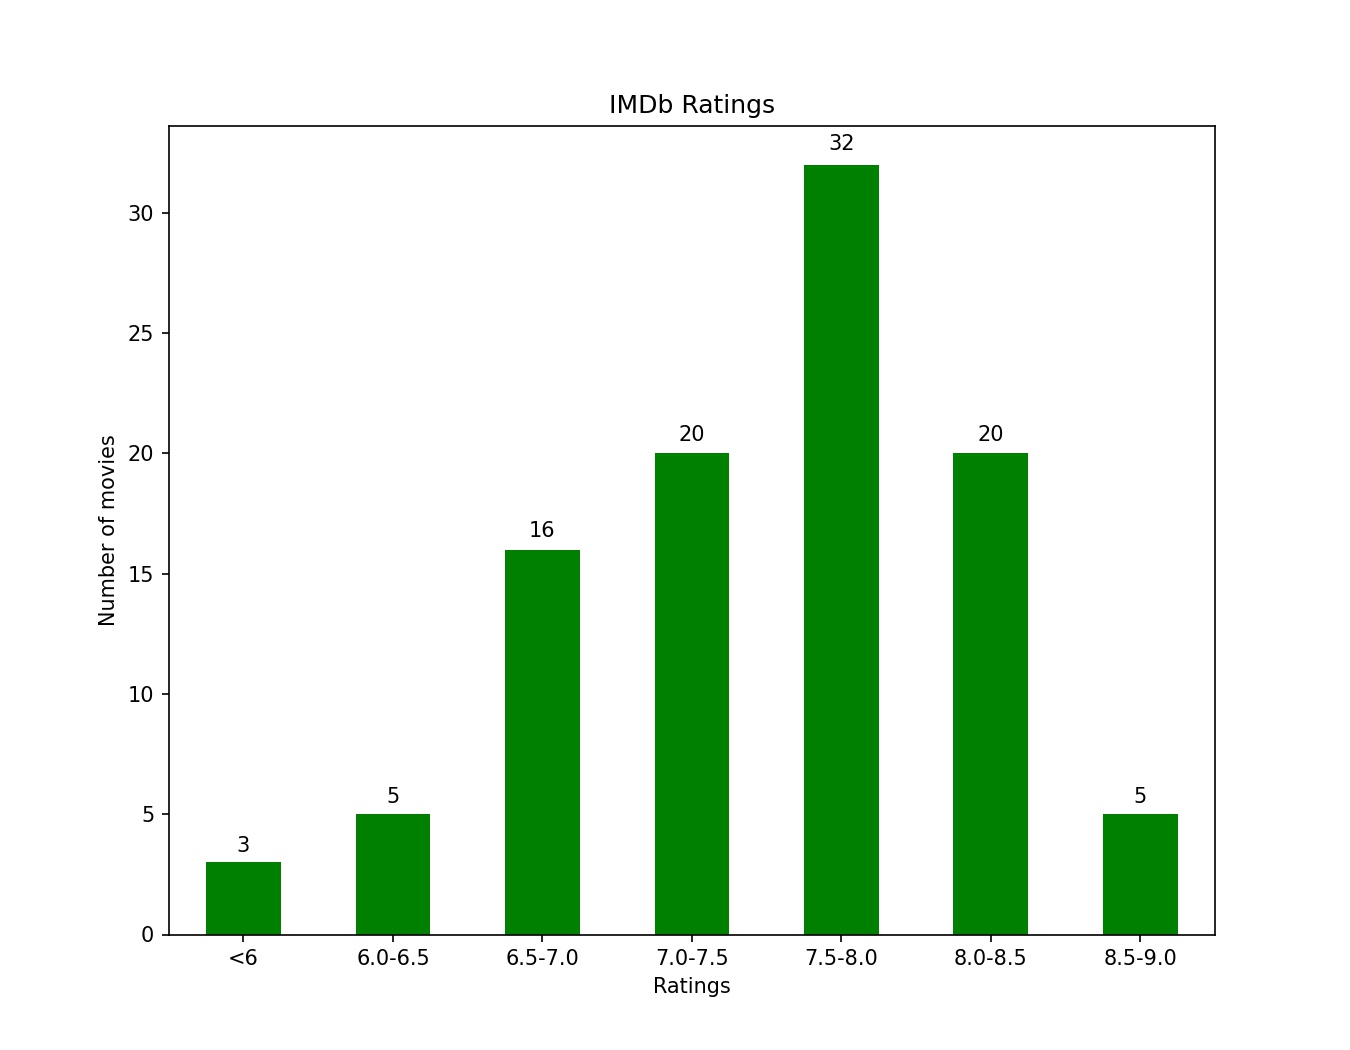
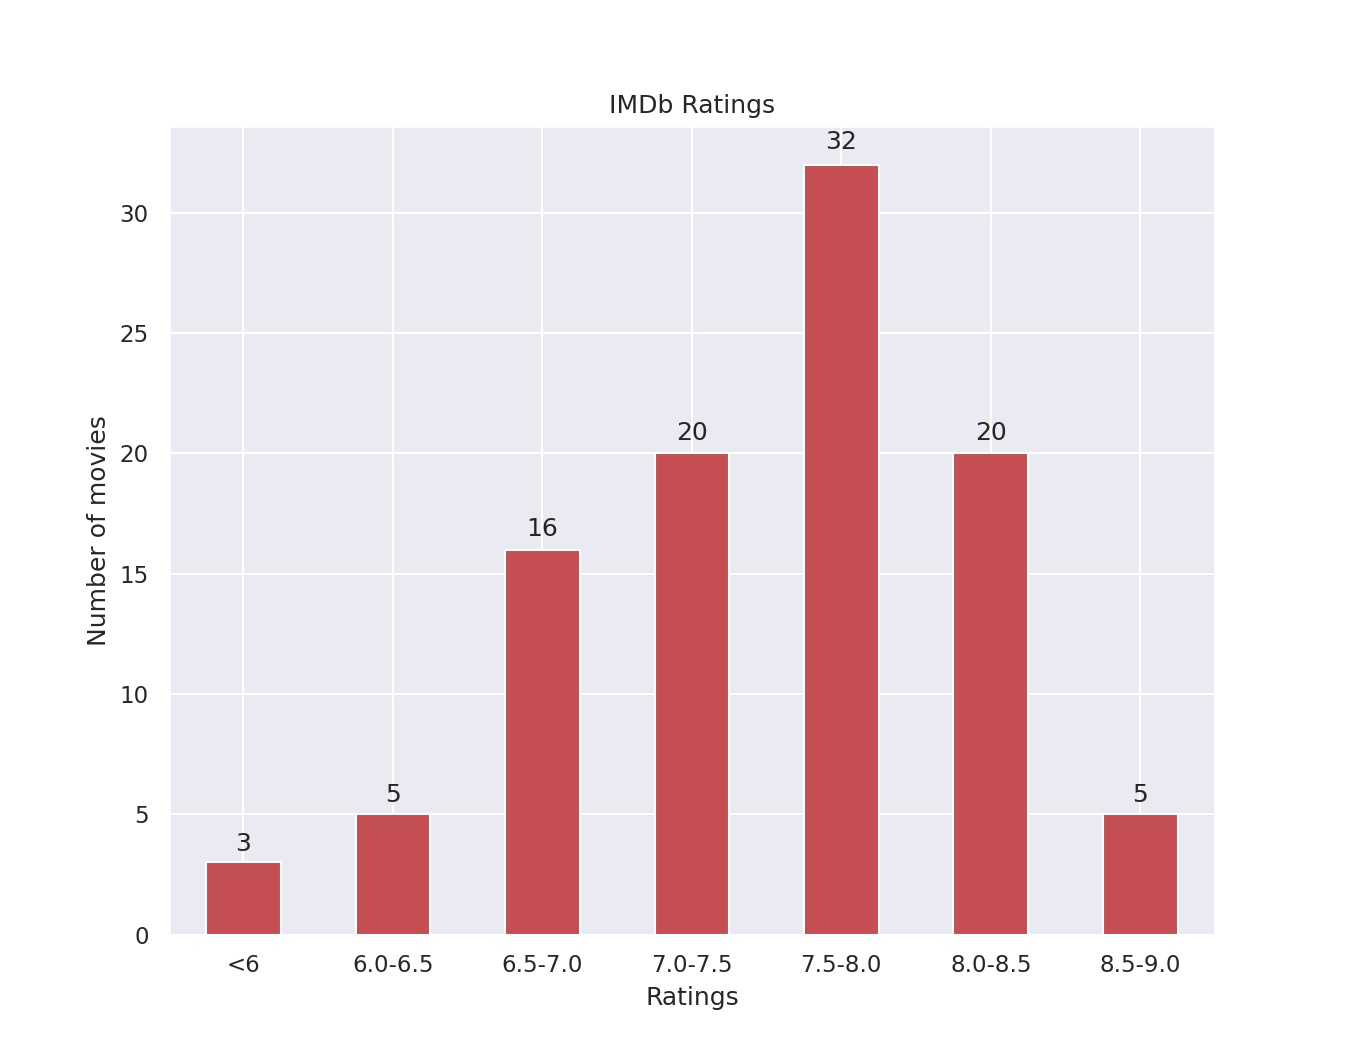
added genre and runtime

diff --git a/movie_analysis.py b/movie_analysis.py
@@ -3,12 +3,15 @@
 import numpy as np
 import pandas as pd
 from imdb import IMDb
-from pdb import set_trace
 import matplotlib.pyplot as plt
+from collections import Counter
+import seaborn as sns
+sns.set_theme()
+from pdb import set_trace
 
 ia = IMDb()
 
-class AnalyzeMovies():
+class MovieAnalyzer():
     def __init__(self, movie_list):
         self._movie_list = movie_list
 
@@ -60,7 +63,7 @@ class AnalyzeMovies():
         bins.insert(0, min(years) - 1)
         binned_data = pd.cut(years, bins=bins, include_lowest=True)
         fig, ax = plt.subplots()
-        ax = binned_data.value_counts(sort=False).plot.bar(rot=0, color="g", figsize=(9,7))
+        ax = binned_data.value_counts(sort=False).plot.bar(rot=0, color="b", figsize=(10,7))
         ax.set_xticklabels(["Before 1950", "1950-1960", "1960-1970", "1970-1980", "1980-1990", "1990-2000", "2000-2010", "After 2010"])
         ax.set_xlabel("Years")
         ax.set_ylabel("Number of movies")
@@ -74,7 +77,7 @@ class AnalyzeMovies():
         bins.insert(0, 2)  # Add a very low 2 points in the front of the bins..
         binned_data = pd.cut(ratings, bins=bins, include_lowest=True)
         fig, ax = plt.subplots()
-        ax = binned_data.value_counts(sort=False).plot.bar(rot=0, color="g", figsize=(9,7))
+        ax = binned_data.value_counts(sort=False).plot.bar(rot=0, color="r", figsize=(9,7))
         ax.set_xticklabels(["<6", "6.0-6.5", "6.5-7.0", "7.0-7.5", "7.5-8.0", "8.0-8.5", "8.5-9.0"])
         ax.set_xlabel("Ratings")
         ax.set_ylabel("Number of movies")
@@ -98,15 +101,63 @@ class AnalyzeMovies():
         print("Outstanding movies:")
         print(outstanding_movies)
 
+    def _process_genres(self, genres):
+        genres_flattened_list = []
+        for genres in genres.tolist():
+            genres_flattened_list.extend(genres.split(';'))
+        return pd.Series(genres_flattened_list)
+
+    def _show_genres(self, genres):
+        genres_df = self._process_genres(genres)
+        #labels, values = Counter(genres_list)
+        fig, ax = plt.subplots()
+        genres_hist = genres_df.value_counts(sort=True)
+        genre_names = genres_hist.index.tolist()
+        genres_hist.plot.bar(rot=0, color="g", figsize=(10,12))
+        ax.set_xticklabels(genre_names, rotation=45)
+        ax.set_xlabel("Genres")
+        ax.set_ylabel("Number of movies")
+        self._label_barplots(ax)   # put the values on top of each bar..
+        plt.title("Movie Genre")
+        plt.savefig("plots/genres.jpg", dpi=150)
+        #plt.show()
+
+    def _runtime_distr(self, movie_info_df):
+        movies_80s = movie_info_df[(movie_info_df["Year"] > 1980) & (movie_info_df["Year"] < 1990)]
+        movies_90s = movie_info_df[(movie_info_df["Year"] > 1990) & (movie_info_df["Year"] < 2000)]
+        movies_00s = movie_info_df[(movie_info_df["Year"] > 2000) & (movie_info_df["Year"] < 2010)]
+        cols = [movies_80s.Runtimes, movies_90s.Runtimes, movies_00s.Runtimes, movie_info_df.Runtimes.dropna()]
+        fig, ax = plt.subplots(figsize=(6,5))
+        c = "red"
+        plt.boxplot(cols, positions=[1,2,3,4], notch=True, patch_artist=True,
+                    boxprops=dict(facecolor=c, color=c),
+                    capprops=dict(color=c),
+                    whiskerprops=dict(color=c),
+                    flierprops=dict(color=c, markeredgecolor=c),
+                    medianprops=dict(color=c),
+                    )
+        ax.set_xticklabels(["1980s", "1990s", "2000s", "All"])
+        ax.set_xlabel("Years")
+        ax.set_ylabel("Runtimes")
+        plt.title("Distribution of Runtimes by Years")
+        plt.savefig("plots/runtime.jpg", dpi=150)
+        #plt.show()
+
     def analyze_movies(self, movie_info):
         movie_info_df = pd.read_csv(movie_info)
         #self._show_year_distr(movie_info_df["Year"])
         #self._show_rating_distr(movie_info_df["Rating"])
-        self._print_good_movies(movie_info_df)
+        #self._print_good_movies(movie_info_df)
+        #self._show_genres(movie_info_df["Genre"])
+        self._runtime_distr(movie_info_df)
 
-if __name__=="__main__":
+def analyze_eslnotes():
+    # Analyze movies from eslnotes
     movie_list = "data/eslnotes_movie_list.txt"
     movie_info = "data/eslnotes_movie_info.csv"
-    eslnotes_analyzer = AnalyzeMovies(movie_list)
+    eslnotes_analyzer = MovieAnalyzer(movie_list)
     #eslnotes_analyzer.get_movie_info(movie_list)
     eslnotes_analyzer.analyze_movies(movie_info)
+
+if __name__=="__main__":
+    analyze_eslnotes()
